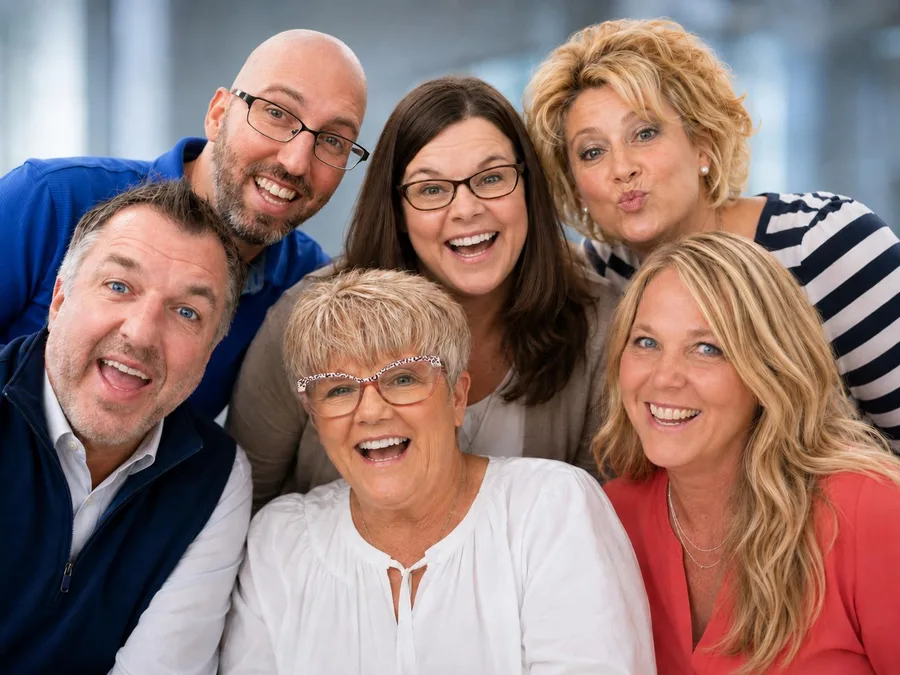
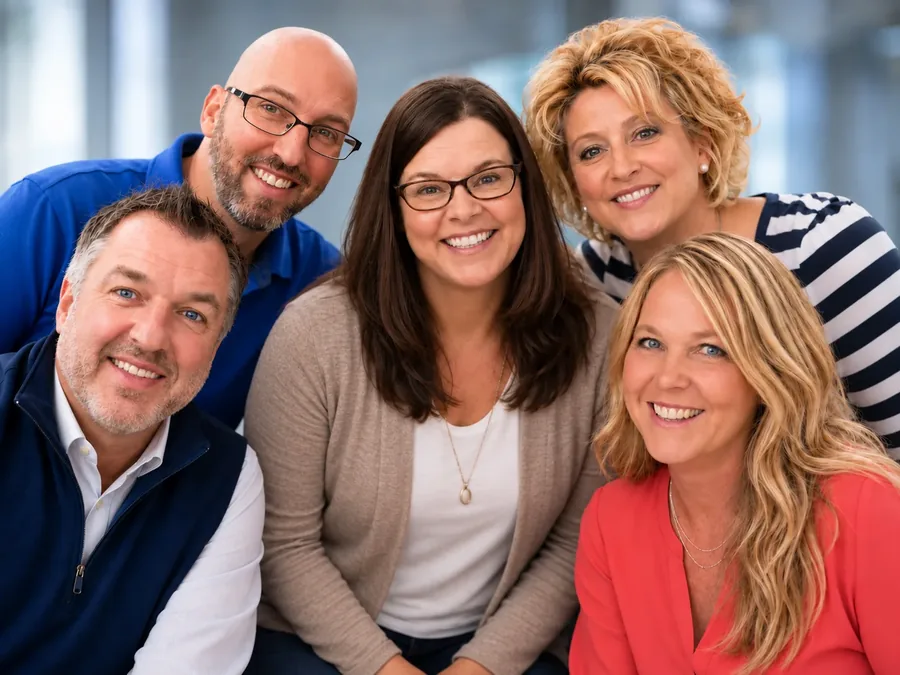
Update contact-us team photo and remove retired agent Debbie Garner

diff --git a/contact-us/index.html b/contact-us/index.html
@@ -127,7 +127,6 @@
       "serviceType": ["Auto Insurance", "Home Insurance", "Commercial Insurance"],
       "employee": [
         {"@type": "Person", "name": "Bill Layne", "jobTitle": "Agent / President", "email": "Save@BillLayneInsurance.com", "image": "https://www.billlayneinsurance.com/contact-us/agents/bill-layne.webp"},
-        {"@type": "Person", "name": "Debbie Garner", "jobTitle": "Agent", "email": "Debbie@BillLayneInsurance.com", "image": "https://www.billlayneinsurance.com/contact-us/agents/debbie-garner.webp"},
         {"@type": "Person", "name": "Tina Jennings", "jobTitle": "Agent", "email": "Tina@BillLayneInsurance.com", "image": "https://www.billlayneinsurance.com/contact-us/agents/tina-jennings.webp"},
         {"@type": "Person", "name": "Robin Holbrook", "jobTitle": "Agent", "email": "Robin@BillLayneInsurance.com", "image": "https://www.billlayneinsurance.com/contact-us/agents/robin-holbrook.webp"},
         {"@type": "Person", "name": "Scott Coleson", "jobTitle": "Agent", "email": "Scott@BillLayneInsurance.com", "image": "https://www.billlayneinsurance.com/contact-us/agents/scott-coleson.webp"},
@@ -638,14 +637,6 @@
                                     <h4 class="font-bold text-slate-900 text-sm">Michele Royall</h4>
                                     <p class="text-[10px] text-indigo-600 font-bold uppercase tracking-wide">Agent</p>
                                     <p class="text-[11px] text-slate-500 truncate">michele@billlayneinsurance.com</p>
-                                </div>
-                            </a>
-                            <a href="mailto:Debbie@BillLayneInsurance.com" class="group bg-white p-3 rounded-2xl shadow-sm border border-slate-100 hover:shadow-md hover:border-indigo-200 transition-all flex items-center gap-3">
-                                <img src="agents/debbie-garner.webp" alt="Debbie Garner insurance agent at Bill Layne Insurance" width="320" height="320" loading="lazy" decoding="async" class="w-14 h-14 rounded-2xl object-cover border-2 border-white ring-1 ring-slate-200 flex-shrink-0">
-                                <div class="min-w-0">
-                                    <h4 class="font-bold text-slate-900 text-sm">Debbie Garner</h4>
-                                    <p class="text-[10px] text-indigo-600 font-bold uppercase tracking-wide">Agent</p>
-                                    <p class="text-[11px] text-slate-500 truncate">debbie@billlayneinsurance.com</p>
                                 </div>
                             </a>
                             <a href="mailto:Save@BillLayneInsurance.com" class="group bg-white p-3 rounded-2xl shadow-sm border border-slate-100 hover:shadow-md hover:border-indigo-200 transition-all flex items-center gap-3">
